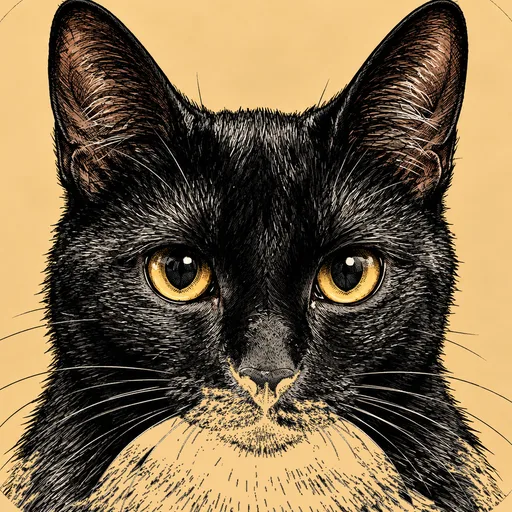
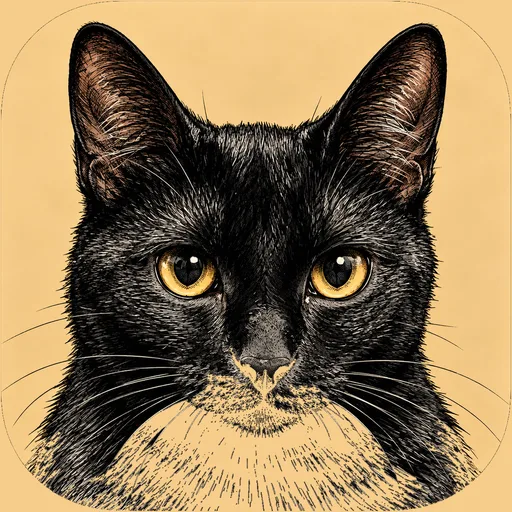
fix(ui): BrokerApp cover from the whole tile, and a vertical cluster below lg (#16)
- brokerapp cover: the art as sent, not a zoom. The icon was an 80% centred
  crop of its tile and Luna's tile is the only one whose ear tips fall inside
  that outer 10%, so it was the single card rendering a clipped head; the 86%
  crop still zoomed too far. Now the whole tile, trimmed, with the rounded
  tile's transparent corners flood-filled and flattened onto its own gold.
- cluster: below lg the four controls stack vertically (right-aligned, anchored
  bottom-right at 24px/56px) instead of running across the narrow viewport in a
  row; lg keeps the single row at the top-right.

diff --git a/tests/visual.test.ts b/tests/visual.test.ts
@@ -442,6 +442,25 @@ describe.runIf(hasBrowser)('rendered appearance', () => {
       expect(Math.round(MOBILE.width - cluster.right), 'cluster right offset').toBe(24);
       expect(Math.round(MOBILE.height - cluster.bottom), 'cluster bottom offset').toBe(56);
 
+      // And it is a column, not a row: the four controls share one centre line and
+      // stack downward, in DOM order. In a row they consumed most of the width.
+      const stack = await page.evaluate(() =>
+        ['[data-cmdk-open]', '[data-locale-toggle]', '[data-scroll-top]', '[data-theme-toggle]'].map(
+          (selector) => {
+            const rect = document.querySelector(selector)!.getBoundingClientRect();
+            return { centre: rect.left + rect.width / 2, top: Math.round(rect.top) };
+          },
+        ),
+      );
+      const centres = stack.map((item) => item.centre);
+      expect(
+        Math.max(...centres) - Math.min(...centres),
+        'the controls must share one column',
+      ).toBeLessThanOrEqual(1);
+      for (let i = 1; i < stack.length; i += 1) {
+        expect(stack[i].top, `${i} stacks below ${i - 1}`).toBeGreaterThan(stack[i - 1].top);
+      }
+
       await page.close();
     },
     TEST_TIMEOUT,

diff --git a/tests/structure.test.ts b/tests/structure.test.ts
@@ -60,6 +60,9 @@ describe('structural invariants', () => {
     expect(index).toMatch(/fixed[^"]*bottom-14 right-6/);
     expect(index).toContain('data-theme-toggle');
     expect(index).toContain('data-scroll-top');
+    // One column on the narrow layout, one row on lg: in a row the four controls
+    // ate most of a 390px reading width.
+    expect(index).toMatch(/fixed[^"]*flex-col[^"]*lg:flex-row/);
   });
 
   it('centres the horizontal section nav instead of leaving it left-aligned', () => {

diff --git a/odd/tasks/visual-polish.md b/odd/tasks/visual-polish.md
@@ -46,9 +46,13 @@ S10 — Look'n'Feel is the first plugin and carries the mascot art the owner sen
 Quote: "dejame look'n'feel de primer plugin y cambile el icono por este: [Image 5]"
 Acceptance: the plugins list opens with `Look'n'Feel`, then `devstack`, then `Work connection` (both locales, by content filename order), and its cover is the sent art — the Siamese on terracotta, shipped as `/plugins/looknfeel.webp`, an 88% centred crop of the file's rounded tile so no surround colour reaches the corners.
 
-S11 — BrokerApp's cover carries the sent Luna art with the whole head, not the clipped crop. Corrected by the owner after S11's first version (which guessed MeperBoard): "NO, quiero que le cambias el gato al propio brokerapp por la luna que te envie".
-Reading: the sources agree that the black cat on gold is `Luna` and that it belongs to BrokerApp; the site already carried that mascot, but as an 80% centred crop of its tile, which is the one card whose ear tips the crop clips (every other project icon matches an 80% crop with its head intact). Acceptance: `public/apps/brokerapp/icon.webp` is rebuilt from the Luna tile at the gentlest crop that clears the tile's rounded corners (86%, measured corner inset 8.69%), its transparent corners flattened onto the tile's own gold (sampled `srgb(246,205,139)`), opaque, 512x512, and the rendered card shows the whole head.
-Status: done this round.
+S11 — BrokerApp's cover carries the sent Luna art, whole head and no zoom. Corrected twice by the owner: first "NO, quiero que le cambias el gato al propio brokerapp por la luna que te envie", then a side-by-side: "la del sitio [Image 1] ... la que tienes que usar [Image 2]".
+Reading, settled by the second round's comparison: the mascot was never wrong — the framing was. The site's icons are 80% centred crops of their brand-pack tiles, and Luna's tile is the only one whose ear tips fall inside that outer 10%, so it was the single card rendering a clipped head; an 86% crop still zoomed too far. Acceptance: `public/apps/brokerapp/icon.webp` is the whole tile — trimmed, not cropped — with the rounded tile's transparent corners flood-filled and flattened onto the tile's own gold (`srgb(246,205,139)`), opaque, square 512x512, so the card shows the head with its margins exactly as the art does.
+Status: done. History: 80% crop (round 1) -> 86% crop -> the whole tile.
+
+S13 — Below `lg` the control cluster stacks vertically.
+Quote: "sigo esperando que estas opciones en responsive mobile se ajusten en vertical y no en horizontal", with a crop of the four controls sitting in a row across the narrow viewport.
+Acceptance: below `lg` the cluster is a column (`flex-col`, items right-aligned) anchored to the bottom-right at 24px/56px; at `lg` it returns to a single row at the top-right. Measured at 390x844: the four controls share one centre line (spread <= 1px) and stack downward in DOM order, and the cluster is no longer wider than a single control. This also explains the earlier "hacia arriba" phrasing: the stack grows upward from the bottom anchor.
 
 S12 — Nothing else in the round's list. Items 4 and 5 of the previous round (the plugin card, the marketplace redirect) are already delivered.
 
@@ -71,7 +75,9 @@ T14 (S10) Plugins: `00-looknfeel.md` first, `02-devstack.md`, `03-work-vpn.md`, 
 T15 (S6) Cluster: `bottom-14` (56px) below lg, tripwire and rendered assertion updated — inline — done. Measured at 390x844: right 24, bottom 56.
 T16 (S11) MeperBoard art — dropped: the owner corrected the card (it is BrokerApp). No write was made to MeperBoard.
 T17 (S1/S6/S9/S10) Test updates: art share floor raised to 0.85, mobile cluster gap 56, plugin order assertion, favicon/manifest head tripwires, browser-identity asset integrity — inline — done. Suite 69/69.
-T18 (S11) BrokerApp cover rebuilt from the Luna tile: 86% centred crop (the tile's rounded-corner inset measures 8.69%, so 86% is the gentlest crop that clears it), transparent corners flattened onto the tile's own gold, 512x512 opaque webp — inline — done. Every other project icon matches an 80% crop with the head intact; BrokerApp was the one whose crop clipped the ear tips.
+T18 (S11) BrokerApp cover rebuilt from the Luna tile: 86% centred crop (the tile's rounded-corner inset measures 8.69%), transparent corners flattened onto the tile's own gold, 512x512 opaque webp — inline — superseded by T19.
+T19 (S11) BrokerApp cover rebuilt again, this time from the whole tile: `-trim` (no crop), the four transparent corner regions flood-filled and the anti-aliased edge flattened onto `srgb(246,205,139)`, forced to a square 512x512 — inline — done. The card now renders the head with the margins the art itself has. Rejected on the way: a blurred-zooomed backdrop (pulled the dark fur into the corners) and an RGB dilation (smeared the whole art).
+T20 (S13) Cluster: `flex-col items-end` below `lg`, `lg:flex-row lg:items-center` above it, plus the comment, the structural regex and the rendered column assertions — inline — done. Measured at 390x844: centres within 1px, tops strictly increasing, cluster 24px/56px off the edges.
 
 ## Log
 
@@ -131,5 +137,16 @@ L18 — Both halves of that message resolve to the same cause, and it is not the
 L19 — S11 rewritten after the owner's correction: the card was BrokerApp, not MeperBoard. Measurement that explains the complaint: every project icon in `public/apps/` matches an 80% centred crop of its brand-pack tile (RMSE 0.082-0.144 against candidate crops), and the BrokerApp tile is the only one whose cat has its ear tips inside that outer 10%, so it was the one cover rendering a clipped head. Rebuilt at 86% with the corners flattened onto the tile's own gold: the whole head, no clipping, no seams.
 
 L20 — Delivered: `fix/visual-polish` pushed and PR #15 opened (label `enhancement`, +160/-26 across 22 files, three commits). Review, merge and therefore what reaches `folio.mepersoft.app` stay the owner's decisions; `main` still carries round 1 until the PR is merged.
+
+L21 (verbatim, owner — fourth message):
+> COmpara las fotos y tu me diras que esta mal; la del sitio: [Image 1]  la que tienes que usar: [Image 2]
+> sigo esperando que estas opciones en responsive mobile se ajusten en vertical y no en horizontal [Image 3]
+
+L22 — The frame comparison is the useful part: the site's cover clipped the ears (Image 1) while the art has the whole head with margins (Image 2). So the framing, not the mascot, was the defect, and "dejala como está la actual, en plan cortada y tal" from the earlier round meant keep the *square* treatment (no tile corners showing), not keep the zoom. Shipped the whole tile with the corners filled: the head is now smaller than its siblings' because their arts differ, which is what "the art I sent" means.
+
+L23 — S13 also retro-explains S6: the owner's "quede mejor sobre el borde hacia arriba" was about the controls stacking upward in a column, which the 56px lift alone could not deliver. Both are in place now: column below `lg`, single row at `lg`.
+
+L24 — Verification for this round: suite 69/69, `astro check` 0 errors, build exit 0; rendered pass confirming the 24px/56px anchors, the shared centre line and the strictly increasing tops of the four controls, and the BrokerApp cover rendering 512x512 opaque with the gold corners.
+
 
 
